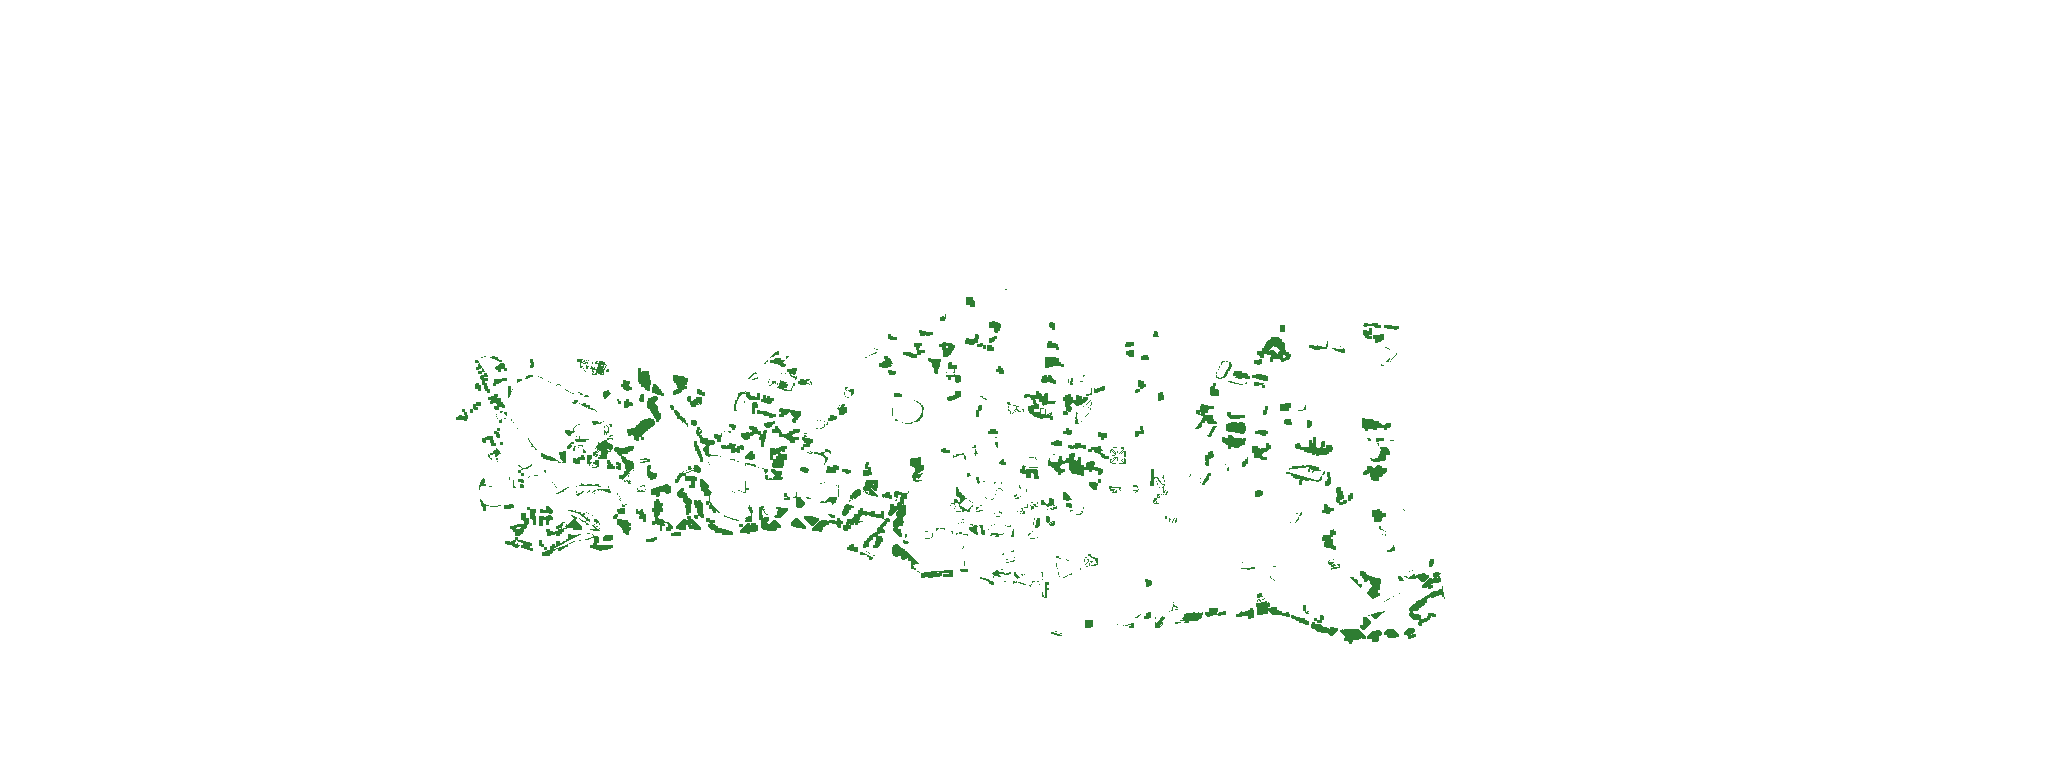
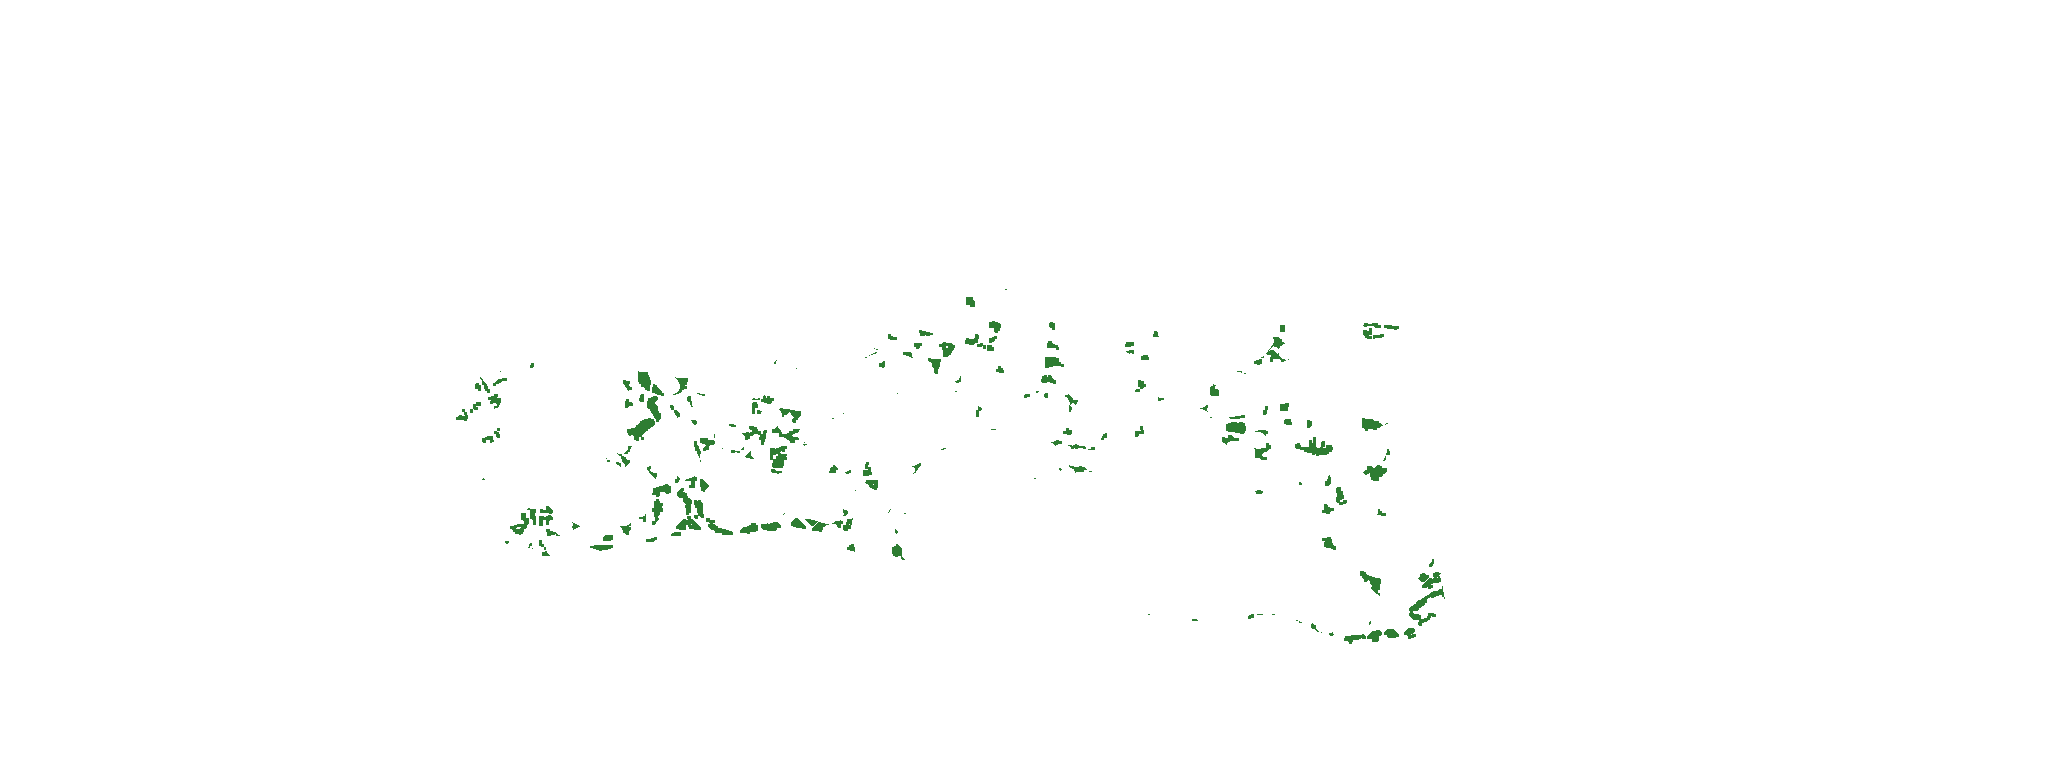
Adiciona praças e buffer 50m à máscara de exclusão OSM
Novos tags: place=square, leisure=playground, highway=pedestrian+area,
amenity=grave_yard. Buffer de ~50m em torno de todos os polígonos
para eliminar pixels adjacentes a espaços públicos.

diff --git a/interiores_quarteiroes.py b/interiores_quarteiroes.py
@@ -348,6 +348,13 @@ OVERPASS_QUERY = """
   relation["leisure"="stadium"](41.13,-8.70,41.19,-8.54);
   way["leisure"="pitch"](41.13,-8.70,41.19,-8.54);
   relation["leisure"="pitch"](41.13,-8.70,41.19,-8.54);
+  way["leisure"="playground"](41.13,-8.70,41.19,-8.54);
+  relation["leisure"="playground"](41.13,-8.70,41.19,-8.54);
+  way["place"="square"](41.13,-8.70,41.19,-8.54);
+  relation["place"="square"](41.13,-8.70,41.19,-8.54);
+  way["highway"="pedestrian"]["area"="yes"](41.13,-8.70,41.19,-8.54);
+  way["amenity"="grave_yard"](41.13,-8.70,41.19,-8.54);
+  relation["amenity"="grave_yard"](41.13,-8.70,41.19,-8.54);
 );
 out body;
 >;
@@ -403,8 +410,10 @@ for el in osm_data['elements']:
         park_polys.extend(outers)
 
 if park_polys:
-    parks_union = unary_union(park_polys)
-    print(f'  {len(park_polys)} poligonos de parques/equipamentos encontrados')
+    parks_raw = unary_union(park_polys)
+    # Buffer de ~50m (em graus: ~0.00045 lat, ~0.00060 lon a 41N)
+    parks_union = parks_raw.buffer(0.0005)
+    print(f'  {len(park_polys)} poligonos de parques/equipamentos encontrados (+ buffer 50m)')
 else:
     parks_union = MultiPolygon()
     print('  Nenhum parque encontrado (mascara OSM nao aplicada)')
